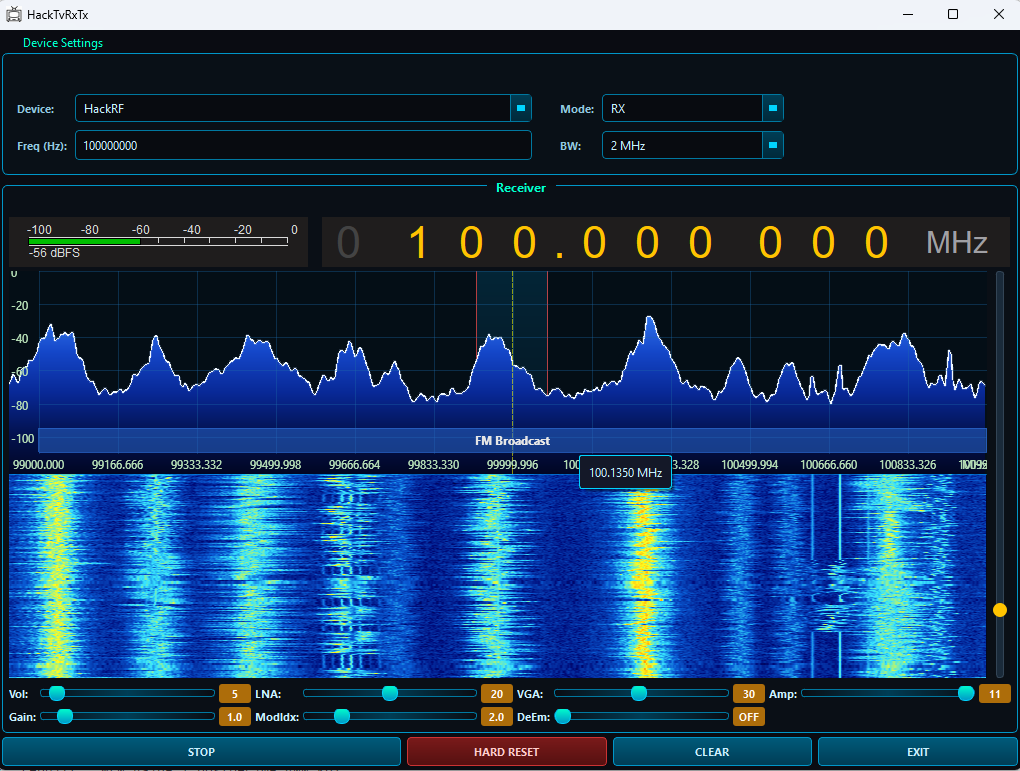
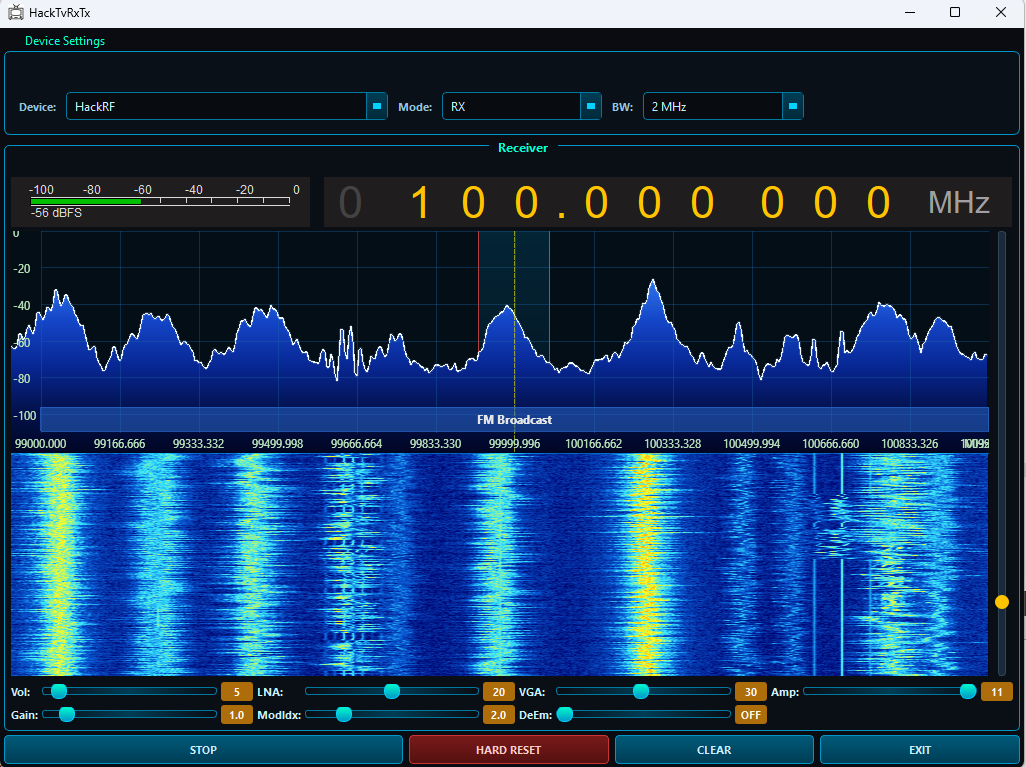
fix

diff --git a/HackTvGui/mainwindow.cpp b/HackTvGui/mainwindow.cpp
@@ -68,7 +68,6 @@ MainWindow::MainWindow(QWidget *parent)
         setCurrentSampleRate(DEFAULT_SAMPLE_RATE);
     }
     if (m_frequency > 0) {
-        frequencyEdit->setText(QString::number(m_frequency));
         freqCtrl->setFrequency(m_frequency);
         cPlotter->setCenterFreq(static_cast<quint64>(m_frequency));
     }
@@ -183,7 +182,6 @@ void MainWindow::setupUi()
     addinputTypeGroup();
     setCentralWidget(centralWidget);
 
-    frequencyEdit->setText(QString::number(m_frequency));
     cPlotter->setCenterFreq(static_cast<quint64>(m_frequency));
     cPlotter->setHiLowCutFrequencies(m_LowCutFreq, m_HiCutFreq);
     freqCtrl->setFrequency(m_frequency);
@@ -361,7 +359,7 @@ void MainWindow::updatePlotter(float* fft_data, int size)
 
 void MainWindow::addOutputGroup()
 {
-    // Output device group - professional layout
+    // Output device group - compact single-row layout
     outputGroup = new QGroupBox("Device Settings", this);
     outputGroup->setStyleSheet(
         "QGroupBox { border: 1px solid #0096c8; border-radius: 6px; margin-top: 1.2em; "
@@ -372,7 +370,7 @@ void MainWindow::addOutputGroup()
 
     QGridLayout *outputLayout = new QGridLayout(outputGroup);
     outputLayout->setVerticalSpacing(8);
-    outputLayout->setHorizontalSpacing(8);
+    outputLayout->setHorizontalSpacing(10);
     outputLayout->setContentsMargins(14, 24, 14, 10);
 
     QString settingsLabelStyle = "QLabel { color: #90c8e0; font-size: 11px; font-weight: bold; }";
@@ -389,34 +387,16 @@ void MainWindow::addOutputGroup()
         outputCombo->addItem(device.first, device.second);
     }
     outputCombo->setSizePolicy(QSizePolicy::Expanding, QSizePolicy::Fixed);
-    outputCombo->setMinimumWidth(120);
 
     QLabel *rxtxLabel = new QLabel("Mode:", this);
     rxtxLabel->setStyleSheet(settingsLabelStyle);
     rxtxCombo = new QComboBox(this);
     rxtxCombo->addItem("RX", "rx");
     rxtxCombo->addItem("TX", "tx");
-    rxtxCombo->setMinimumWidth(70);
-
-    ampEnabled = new QCheckBox("Amp", this);
-    ampEnabled->setMinimumWidth(65);
-    colorDisabled = new QCheckBox("No Color", this);
-    colorDisabled->setMinimumWidth(95);
-
-    channelLabel = new QLabel("Ch:", this);
-    channelLabel->setStyleSheet(settingsLabelStyle);
-    channelCombo = new QComboBox(this);
-    channelCombo->setSizePolicy(QSizePolicy::Expanding, QSizePolicy::Fixed);
-
-    QLabel *freqLabel = new QLabel("Freq (Hz):", this);
-    freqLabel->setStyleSheet(settingsLabelStyle);
-    frequencyEdit = new QLineEdit(this);
-    frequencyEdit->setSizePolicy(QSizePolicy::Expanding, QSizePolicy::Fixed);
 
     QLabel *sampleRateLabel = new QLabel("BW:", this);
     sampleRateLabel->setStyleSheet(settingsLabelStyle);
     sampleRateCombo = new QComboBox(this);
-    sampleRateCombo->setMinimumWidth(80);
 
     std::map<int, QString> sortedSampleRates {
         {2000000, "2"},
@@ -431,38 +411,43 @@ void MainWindow::addOutputGroup()
         sampleRateCombo->addItem(displayText + " MHz", rate);
     }
 
-    // 8-column grid: Label(0) Widget(1) Spacer(2) Label(3) Widget(4) Spacer(5) Label/Check(6) Widget/Check(7)
-    // Row 0: Device [____combo____]  |  Mode [_combo_]  |  Amp  NoColor
-    outputLayout->addWidget(outputLabel,    0, 0);
-    outputLayout->addWidget(outputCombo,    0, 1);
-    outputLayout->addWidget(rxtxLabel,      0, 3);
-    outputLayout->addWidget(rxtxCombo,      0, 4);
-    outputLayout->addWidget(ampEnabled,     0, 6);
-    outputLayout->addWidget(colorDisabled,  0, 7);
+    ampEnabled = new QCheckBox("Amp", this);
+    ampEnabled->setMinimumWidth(65);
+    colorDisabled = new QCheckBox("No Color", this);
+    colorDisabled->setMinimumWidth(95);
 
-    // Row 1: Freq (Hz) [____edit____]  |  BW [_combo_]  |  Ch [_combo_]
-    outputLayout->addWidget(freqLabel,       1, 0);
-    outputLayout->addWidget(frequencyEdit,   1, 1);
-    outputLayout->addWidget(sampleRateLabel, 1, 3);
-    outputLayout->addWidget(sampleRateCombo, 1, 4);
-    outputLayout->addWidget(channelLabel,    1, 6);
-    outputLayout->addWidget(channelCombo,    1, 7);
+    channelLabel = new QLabel("Ch:", this);
+    channelLabel->setStyleSheet(settingsLabelStyle);
+    channelCombo = new QComboBox(this);
+    channelCombo->setSizePolicy(QSizePolicy::Expanding, QSizePolicy::Fixed);
 
-    // Column stretches: wide-narrow-spacer pattern
-    outputLayout->setColumnStretch(0, 0);   // "Device:" label
-    outputLayout->setColumnStretch(1, 5);   // Device combo — widest
-    outputLayout->setColumnStretch(2, 0);   // spacer col
-    outputLayout->setColumnStretch(3, 0);   // "Mode:" label
-    outputLayout->setColumnStretch(4, 2);   // Mode/BW combo
-    outputLayout->setColumnStretch(5, 0);   // spacer col
-    outputLayout->setColumnStretch(6, 0);   // Amp/Ch label
-    outputLayout->setColumnStretch(7, 2);   // NoColor/Channel combo
+    // frequencyEdit removed — m_frequency is the authoritative source
 
-    // Add spacer columns for visual separation
-    outputLayout->setColumnMinimumWidth(2, 12);
-    outputLayout->setColumnMinimumWidth(5, 12);
+    // Single row: Device [___combo___] | Mode [_combo_] | BW [_combo_] | Amp | NoColor | Ch [_combo_]
+    outputLayout->addWidget(outputLabel,     0, 0);
+    outputLayout->addWidget(outputCombo,     0, 1);
+    outputLayout->addWidget(rxtxLabel,       0, 2);
+    outputLayout->addWidget(rxtxCombo,       0, 3);
+    outputLayout->addWidget(sampleRateLabel, 0, 4);
+    outputLayout->addWidget(sampleRateCombo, 0, 5);
+    outputLayout->addWidget(ampEnabled,      0, 6);
+    outputLayout->addWidget(colorDisabled,   0, 7);
+    outputLayout->addWidget(channelLabel,    0, 8);
+    outputLayout->addWidget(channelCombo,    0, 9);
 
-    int col = 8; // total columns for TX controls row span
+    // Column stretches
+    outputLayout->setColumnStretch(0, 0);  // Device label
+    outputLayout->setColumnStretch(1, 4);  // Device combo - widest
+    outputLayout->setColumnStretch(2, 0);  // Mode label
+    outputLayout->setColumnStretch(3, 2);  // Mode combo
+    outputLayout->setColumnStretch(4, 0);  // BW label
+    outputLayout->setColumnStretch(5, 2);  // BW combo
+    outputLayout->setColumnStretch(6, 0);  // Amp
+    outputLayout->setColumnStretch(7, 0);  // NoColor
+    outputLayout->setColumnStretch(8, 0);  // Ch label
+    outputLayout->setColumnStretch(9, 2);  // Ch combo
+
+    int col = 10; // total columns for TX controls row span
 
     // TX Controls layout (hidden in RX mode)
     txControlsLayout = new QGridLayout();
@@ -768,7 +753,6 @@ void MainWindow::addRxGroup()
         cPlotter->setCenterFreq(static_cast<quint64>(m_frequency));
         if (m_isProcessing && m_hackTvLib)
             m_hackTvLib->setFrequency(m_frequency);
-        frequencyEdit->setText(QString::number(m_frequency));
         saveSettings();
     });
 
@@ -1153,7 +1137,6 @@ void MainWindow::onFreqCtrl_setFrequency(qint64 freq)
     cPlotter->setCenterFreq(static_cast<quint64>(freq));
     if (m_isProcessing)
         m_hackTvLib->setFrequency(m_frequency);
-    frequencyEdit->setText(QString::number(m_frequency));
     saveSettings();
 }
 
@@ -1163,7 +1146,6 @@ void MainWindow::on_plotter_newDemodFreq(qint64 freq, qint64 delta)
     cPlotter->setCenterFreq(static_cast<quint64>(freq));
     if (m_isProcessing)
         m_hackTvLib->setFrequency(m_frequency);
-    frequencyEdit->setText(QString::number(m_frequency));
     freqCtrl->setFrequency(m_frequency);
     saveSettings();
 }
@@ -1185,9 +1167,8 @@ void MainWindow::executeCommand()
 
     if (executeButton->text() == "START")
     {
-        // CRITICAL: frequencyEdit is the authoritative frequency source.
-        // Sync m_frequency, freqCtrl and cPlotter from it before anything else.
-        m_frequency = frequencyEdit->text().toLongLong();
+        // m_frequency is the authoritative frequency source.
+        // Sync freqCtrl and cPlotter from it before anything else.
         freqCtrl->setFrequency(m_frequency);
 
         // Hard reset: destroy existing instance and create fresh one
@@ -1449,11 +1430,10 @@ QStringList MainWindow::buildCommand()
     }
 
     m_sampleRate =  sampleRateCombo->currentData().toInt();
-    m_frequency = frequencyEdit->text().toLongLong();
 
     auto sample_rate = QString::number(m_sampleRate);
 
-    args << "-f" << frequencyEdit->text()
+    args << "-f" << QString::number(m_frequency)
          << "-s" << sample_rate
          << "-m" << modeCombo->currentData().toString();
 
@@ -1724,9 +1704,9 @@ void MainWindow::populateChannelCombo()
 void MainWindow::onChannelChanged(int index)
 {
     long long frequency = channelCombo->itemData(index).toLongLong();
-    frequencyEdit->setText(QString::number(frequency));
-    freqCtrl->setFrequency(frequency);
     m_frequency = frequency;
+    freqCtrl->setFrequency(frequency);
+    cPlotter->setCenterFreq(static_cast<quint64>(m_frequency));
     if(m_isProcessing)
     {
         m_hackTvLib->setFrequency(m_frequency);
@@ -1782,8 +1762,7 @@ void MainWindow::hardReset()
     // 5. Reset UI state
     executeButton->setText("START");
 
-    // 6. Sync frequency from frequencyEdit (authoritative source)
-    m_frequency = frequencyEdit->text().toLongLong();
+    // 6. Sync frequency from m_frequency (authoritative source)
     freqCtrl->setFrequency(m_frequency);
     cPlotter->setCenterFreq(static_cast<quint64>(m_frequency));
     cPlotter->setSampleRate(m_sampleRate);

diff --git a/HackTvGui/mainwindow.h b/HackTvGui/mainwindow.h
@@ -92,7 +92,7 @@ private:
     // Invert checkbox in fourth row
     QComboBox *outputCombo, *channelCombo, *sampleRateCombo, *rxtxCombo, *inputTypeCombo, *modeCombo;
     QCheckBox *ampEnabled, *colorDisabled;
-    QLineEdit *frequencyEdit, *inputFileEdit, *ffmpegOptionsEdit;
+    QLineEdit *inputFileEdit, *ffmpegOptionsEdit;
     QLabel *channelLabel;
     QPushButton *chooseFileButton, *executeButton, *exitButton, *clearButton, *hardResetButton;
     QSlider *txAmplitudeSlider, *txFilterSizeSlider, *txModulationIndexSlider, *txInterpolationSlider;
